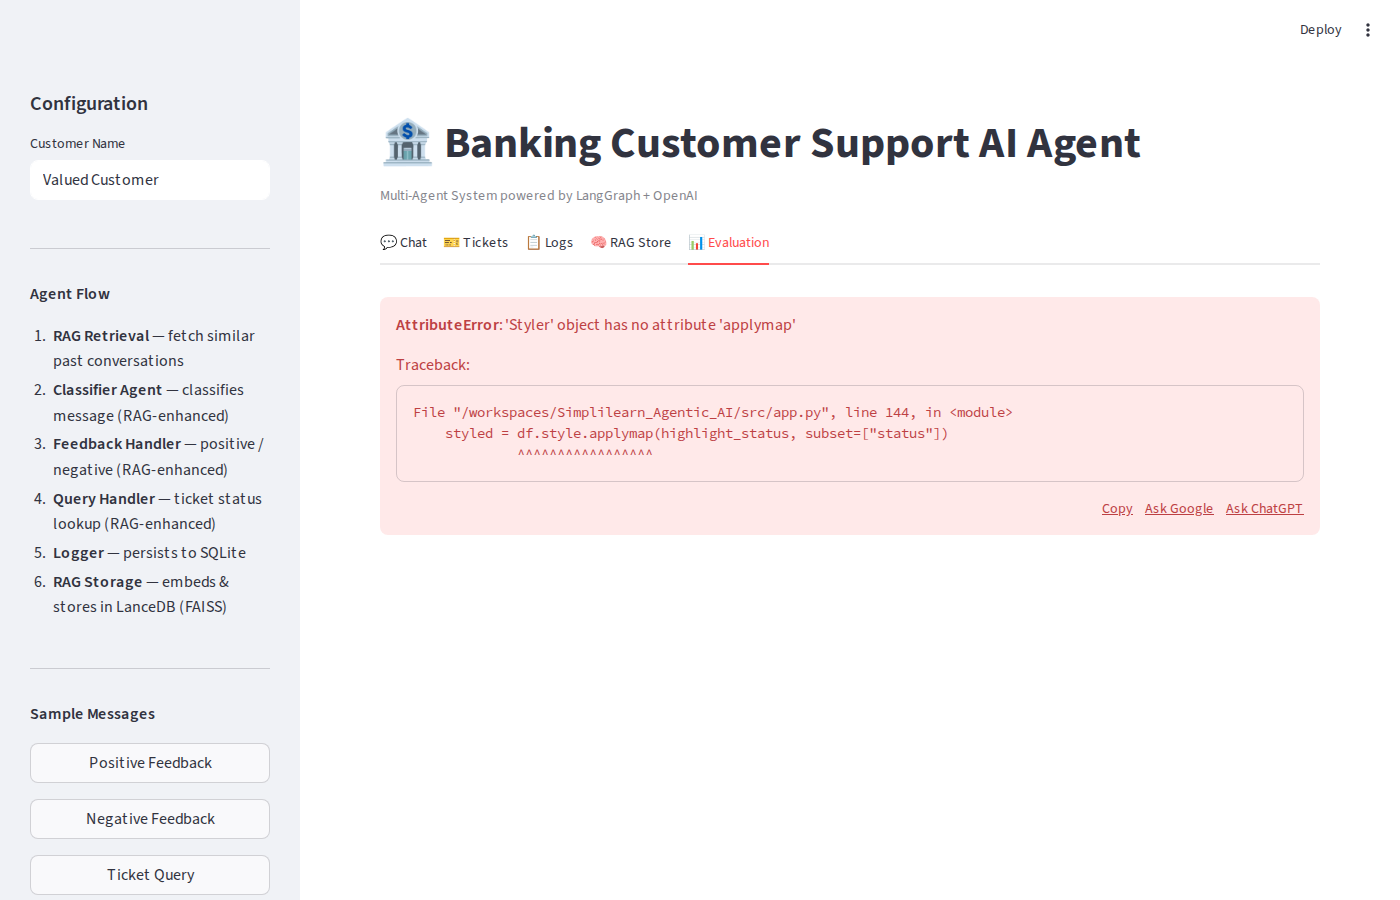
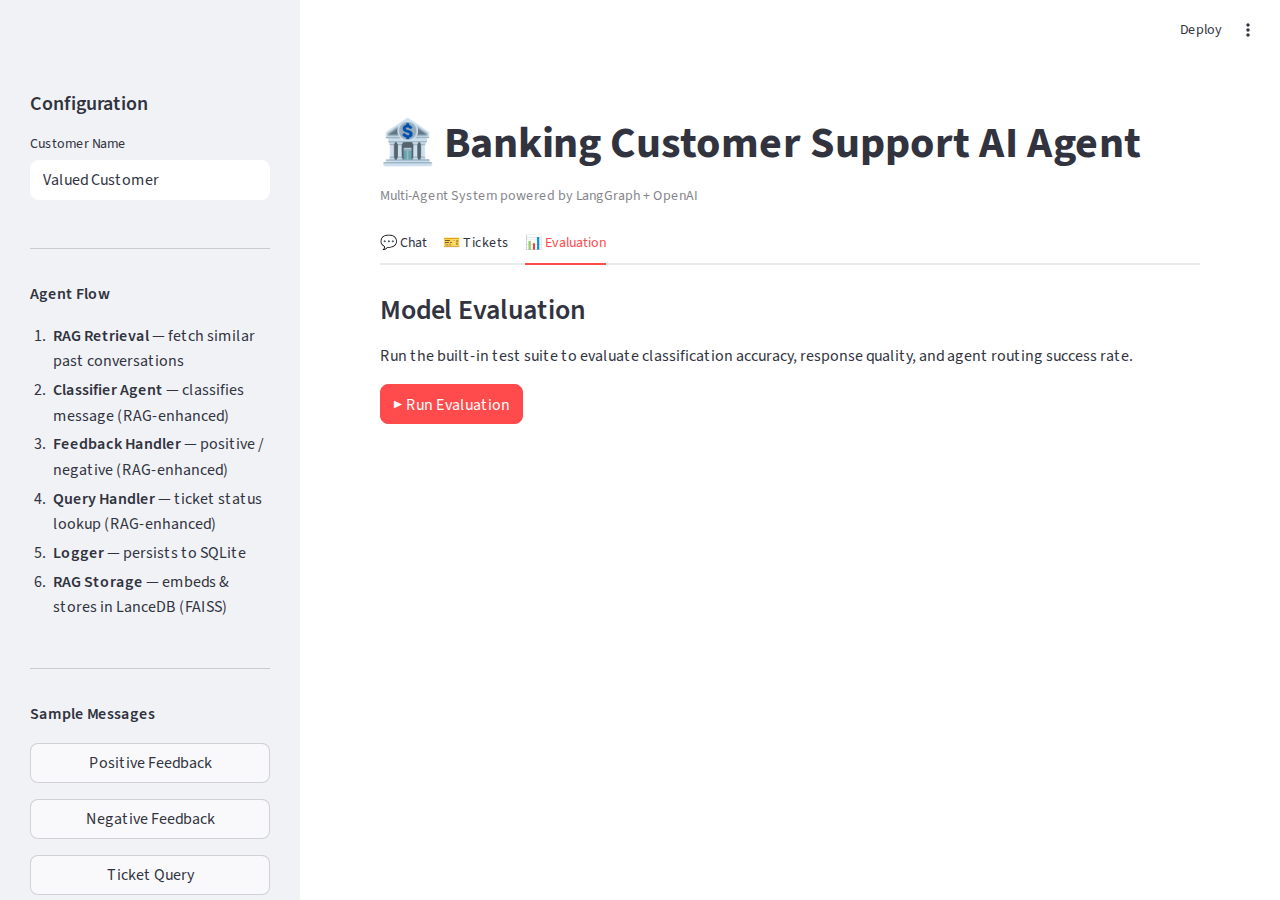
ui: remove Logs and RAG Store tabs; refresh screenshots with test-case scenarios

diff --git a/src/capture_screenshots.py b/src/capture_screenshots.py
@@ -1,48 +1,51 @@
 """
-Captures screenshots of all Streamlit UI tabs and saves them to screenshots/
+Captures screenshots of all Streamlit UI tabs and saves them to screenshots/.
 Uses Playwright running inside the container (localhost access, no auth required).
+
+Tabs captured: Chat, Tickets, Evaluation (Logs and RAG Store removed from UI).
+Also pre-fills each sample message button to show the test-case scenarios.
 """
 import asyncio
 from pathlib import Path
 from playwright.async_api import async_playwright
 
-BASE_URL  = "http://localhost:8502"
-SAVE_DIR  = Path(__file__).parent.parent / "screenshots"
+BASE_URL = "http://localhost:8502"
+SAVE_DIR = Path(__file__).parent.parent / "screenshots"
 SAVE_DIR.mkdir(exist_ok=True)
-
-TABS = [
-    ("chat",       "💬 Chat",        None),
-    ("tickets",    "🎫 Tickets",     None),
-    ("logs",       "📋 Logs",        None),
-    ("rag_store",  "🧠 RAG Store",   None),
-    ("evaluation", "📊 Evaluation",  None),
-]
 
 
 async def wait_for_streamlit(page, timeout=45_000):
     """Wait until Streamlit has fully rendered content."""
     await page.wait_for_load_state("domcontentloaded", timeout=timeout)
-    # Wait for Streamlit app container
     await page.wait_for_selector('[data-testid="stApp"]', timeout=timeout)
-    # Wait for any Streamlit spinner to disappear
     try:
-        await page.wait_for_selector('.stSpinner', state='detached', timeout=8_000)
+        await page.wait_for_selector(".stSpinner", state="detached", timeout=8_000)
     except Exception:
         pass
-    # Wait until there is visible text content in the app
     await page.wait_for_function(
         "() => document.querySelector('[data-testid=\"stApp\"]')?.innerText?.trim().length > 20",
         timeout=timeout,
     )
-    await asyncio.sleep(2.0)  # final render settle
+    await asyncio.sleep(2.0)
 
 
-async def click_tab(page, tab_label: str):
-    """Click a tab by its visible text and wait for content to settle."""
-    # Use partial text match for tab button
-    label_word = tab_label.split()[-1]  # e.g. "Chat", "Tickets"
+async def click_tab(page, label_word: str):
+    """Click a tab button by a word in its label and wait for content."""
     await page.click(f'button[role="tab"]:has-text("{label_word}")')
     await asyncio.sleep(2.0)
+
+
+async def fill_and_screenshot(page, message: str, filename: str, label: str):
+    """Type a message into the textarea and screenshot (without sending — no API key)."""
+    await click_tab(page, "Chat")
+    # Clear the textarea and type the test message
+    textarea = page.locator("textarea").first
+    await textarea.click()
+    await textarea.fill(message)
+    await asyncio.sleep(1.0)
+    path = SAVE_DIR / filename
+    await page.screenshot(path=str(path), full_page=False)
+    print(f"  Saved: {path.name}  ({label})")
 
 
 async def main():
@@ -53,43 +56,46 @@ async def main():
         print(f"Opening {BASE_URL} ...")
         await page.goto(BASE_URL, wait_until="domcontentloaded", timeout=30_000)
         await wait_for_streamlit(page)
-        print("  Streamlit loaded.")
+        print("  Streamlit loaded.\n")
 
-        # ── 1. Full app screenshot (Chat tab default) ──────────────────────
-        path = SAVE_DIR / "01_chat_tab.png"
+        # ── 01. Chat tab — empty (default state) ──────────────────────────
+        path = SAVE_DIR / "01_chat_tab_default.png"
         await page.screenshot(path=str(path), full_page=False)
-        print(f"  Saved: {path.name}")
+        print(f"  Saved: {path.name}  (Chat — default state)")
 
-        # ── 2. Tickets tab ─────────────────────────────────────────────────
-        await click_tab(page, "🎫 Tickets")
-        path = SAVE_DIR / "02_tickets_tab.png"
+        # ── 02–04. Chat tab — test-case messages pre-filled ────────────────
+        test_messages = [
+            ("Thanks for sorting out my net banking login issue.",
+             "02_chat_positive_feedback.png",
+             "Test case: Positive Feedback (Alice)"),
+            ("My debit card replacement still hasn't arrived after 3 weeks.",
+             "03_chat_negative_feedback.png",
+             "Test case: Negative Feedback (Carol)"),
+            ("Could you check the status of ticket 650932?",
+             "04_chat_ticket_query.png",
+             "Test case: Ticket Query (Eve)"),
+        ]
+        for msg, fname, lbl in test_messages:
+            await fill_and_screenshot(page, msg, fname, lbl)
+
+        # ── 05. Tickets tab ────────────────────────────────────────────────
+        await click_tab(page, "Tickets")
+        path = SAVE_DIR / "05_tickets_tab.png"
         await page.screenshot(path=str(path), full_page=False)
-        print(f"  Saved: {path.name}")
+        print(f"  Saved: {path.name}  (Tickets)")
 
-        # ── 3. Logs tab ────────────────────────────────────────────────────
-        await click_tab(page, "📋 Logs")
-        path = SAVE_DIR / "03_logs_tab.png"
+        # ── 06. Evaluation tab ─────────────────────────────────────────────
+        await click_tab(page, "Evaluation")
+        path = SAVE_DIR / "06_evaluation_tab.png"
         await page.screenshot(path=str(path), full_page=False)
-        print(f"  Saved: {path.name}")
+        print(f"  Saved: {path.name}  (Evaluation)")
 
-        # ── 4. RAG Store tab ───────────────────────────────────────────────
-        await click_tab(page, "🧠 RAG Store")
-        path = SAVE_DIR / "04_rag_store_tab.png"
-        await page.screenshot(path=str(path), full_page=False)
-        print(f"  Saved: {path.name}")
-
-        # ── 5. Evaluation tab ──────────────────────────────────────────────
-        await click_tab(page, "📊 Evaluation")
-        path = SAVE_DIR / "05_evaluation_tab.png"
-        await page.screenshot(path=str(path), full_page=False)
-        print(f"  Saved: {path.name}")
-
-        # ── 6. Full page scrolled screenshot of Chat tab ───────────────────
-        await click_tab(page, "💬 Chat")
-        await asyncio.sleep(0.8)
-        path = SAVE_DIR / "06_full_page.png"
+        # ── 07. Full-page Chat tab ─────────────────────────────────────────
+        await click_tab(page, "Chat")
+        await asyncio.sleep(0.5)
+        path = SAVE_DIR / "07_full_page.png"
         await page.screenshot(path=str(path), full_page=True)
-        print(f"  Saved: {path.name}")
+        print(f"  Saved: {path.name}  (full-page scroll)")
 
         await browser.close()
         print("\nAll screenshots saved to screenshots/")

diff --git a/src/app.py b/src/app.py
@@ -15,9 +15,8 @@ from dotenv import load_dotenv
 
 load_dotenv()
 
-from database import init_db, get_all_logs, get_all_tickets
+from database import init_db, get_all_tickets
 from workflow import run_support_agent
-from rag import get_all_rag_records
 
 # Initialize DB on first run
 init_db()
@@ -64,8 +63,8 @@ with st.sidebar:
 # ---------------------------------------------------------------------------
 # Main tabs
 # ---------------------------------------------------------------------------
-tab_chat, tab_tickets, tab_logs, tab_rag, tab_eval = st.tabs(
-    ["💬 Chat", "🎫 Tickets", "📋 Logs", "🧠 RAG Store", "📊 Evaluation"]
+tab_chat, tab_tickets, tab_eval = st.tabs(
+    ["💬 Chat", "🎫 Tickets", "📊 Evaluation"]
 )
 
 # ---- Chat tab ----
@@ -145,61 +144,6 @@ with tab_tickets:
         st.dataframe(styled, width="stretch")
     else:
         st.info("No tickets found.")
-
-# ---- Logs tab ----
-with tab_logs:
-    st.subheader("Agent Interaction Logs")
-    if st.button("🔄 Refresh", key="refresh_logs"):
-        st.rerun()
-
-    logs = get_all_logs()
-    if logs:
-        df = pd.DataFrame(logs)
-        df["success"] = df["success"].map({1: "✅ Yes", 0: "❌ No"})
-        st.dataframe(df, width="stretch")
-
-        # Summary metrics
-        st.markdown("---")
-        total = len(logs)
-        success_count = sum(1 for log in logs if log["success"] in (1, "✅ Yes"))
-        col1, col2, col3 = st.columns(3)
-        col1.metric("Total Interactions", total)
-        col2.metric("Successful", success_count)
-        col3.metric("Success Rate", f"{success_count / total * 100:.1f}%" if total else "N/A")
-    else:
-        st.info("No logs found yet. Submit a message in the Chat tab.")
-
-# ---- RAG Store tab ----
-with tab_rag:
-    st.subheader("RAG Vector Store — LanceDB + FAISS")
-    st.markdown(
-        "All completed conversations are embedded using **OpenAI text-embedding-3-small** "
-        "and stored in **LanceDB** with a **FAISS IVF-PQ** index. "
-        f"The index is built automatically after {50} records.  "
-        "Incoming messages are matched against this store to retrieve relevant past "
-        "interactions that are injected into every agent's system prompt."
-    )
-
-    if st.button("🔄 Refresh", key="refresh_rag"):
-        st.rerun()
-
-    records = get_all_rag_records()
-    if records:
-        # Drop the vector field for display
-        df = pd.DataFrame(records).drop(columns=["vector"], errors="ignore")
-        col1, col2, col3 = st.columns(3)
-        col1.metric("Total Embeddings", len(records))
-        breakdown = df["classification"].value_counts().to_dict() if "classification" in df.columns else {}
-        col2.metric("Positive Feedback", breakdown.get("positive_feedback", 0))
-        col3.metric("Negative Feedback / Query",
-                    breakdown.get("negative_feedback", 0) + breakdown.get("query", 0))
-        st.markdown("---")
-        st.dataframe(df, width="stretch")
-    else:
-        st.info(
-            "The RAG store is empty. Submit messages in the Chat tab to populate it. "
-            "Embeddings are created after each interaction."
-        )
 
 # ---- Evaluation tab ----
 with tab_eval:
